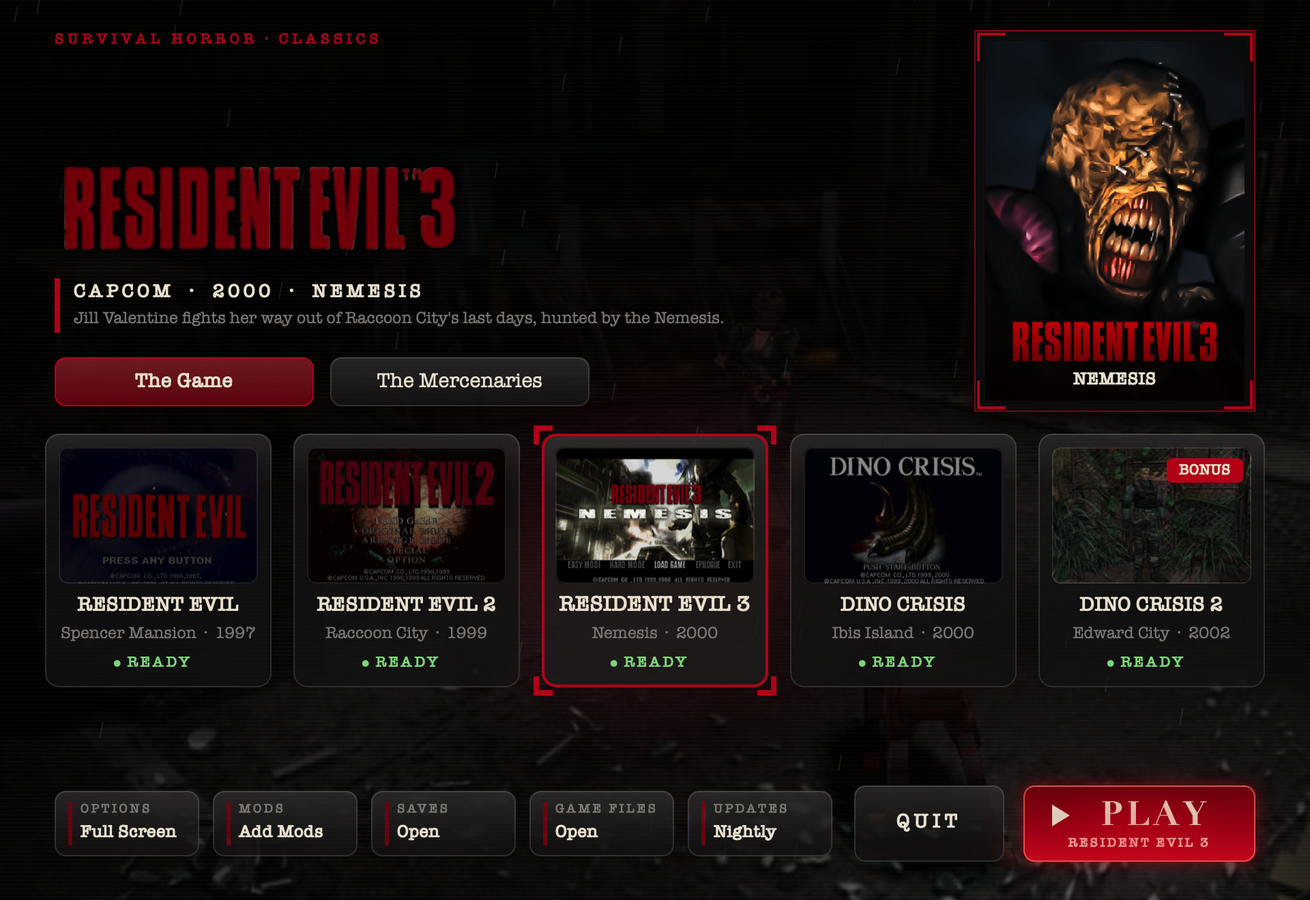
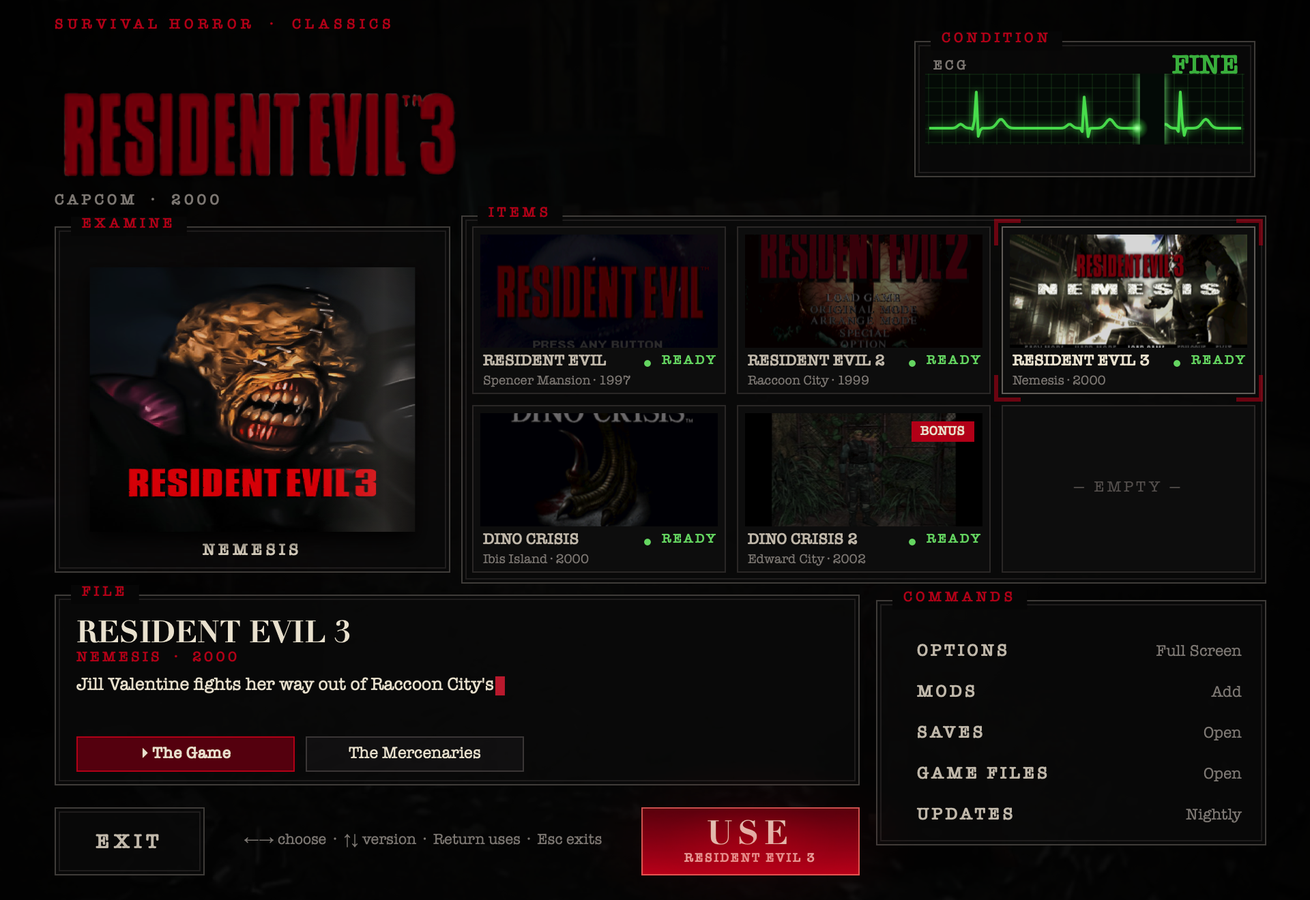
Launch window: the inventory screen
The window is laid out as the games' own inventory rather than the shared card-and-portrait layout:
- the title over the Capcom line;
- a Condition monitor with a heart's trace running live;
- Examine, with the chosen game turning slowly under a gliding light;
- the item grid: a slot per game (its own screen, name, place, state, the bonus ribbon), one slot empty, and a
  cursor breathing round the chosen one;
- the item's file, its sentence typed out a letter at a time with the typewriter's red carriage, and its versions
  as the verbs under it;
- the commands (Options, Mods, Saves, Game Files, Updates) as the inventory's list;
- Exit and Use.

A bad bulb flickers now and then.

diff --git a/recomp/host/horror_launcher.m b/recomp/host/horror_launcher.m
@@ -139,12 +139,17 @@ static NSImage *frost(NSImage *img, CGFloat soft)
     [edge ?: rgb(1, 1, 1, 0.16) setStroke]; [e stroke];
 }
 - (BOOL)acceptsFirstResponder { return YES; }
-- (NSRect)cardRect:(NSInteger)k { CGFloat w = NG > 4 ? 166 : 200, gap = NG > 4 ? 16 : 22, x0 = (self.bounds.size.width - (NG * w + (NG - 1) * gap)) / 2; return NSMakeRect(x0 + k * (w + gap), 318, w, 186); }
-- (NSRect)verRect:(NSInteger)k of:(NSInteger)n { CGFloat w = 190, gap = 12; return NSMakeRect(40 + k * (w + gap), 262, w, 36); }
-- (NSRect)tileRect:(NSInteger)k { CGFloat w = 106, x0 = 40; return NSMakeRect(x0 + k * (w + 10), 580, w, 48); }
-- (NSRect)playRect { return NSMakeRect(self.bounds.size.width - 40 - 170, 576, 170, 56); }
-- (NSRect)quitRect { return NSMakeRect(self.bounds.size.width - 40 - 170 - 14 - 110, 576, 110, 56); }
-- (NSRect)portraitRect { return NSMakeRect(self.bounds.size.width - 40 - 206, 22, 206, 280); }
+/* the inventory screen: the title and the condition monitor; Examine and the item grid; the item's file and the commands */
+- (NSRect)gridRect { return NSMakeRect(346, 166, 574, 254); }
+- (NSRect)cardRect:(NSInteger)k { NSRect g = self.gridRect; CGFloat w = (g.size.width - 16) / 3, h = (g.size.height - 8) / 2; return NSMakeRect(g.origin.x + (k % 3) * (w + 8), g.origin.y + (k / 3) * (h + 8), w, h); }
+- (NSRect)examineRect { return NSMakeRect(40, 166, 290, 254); }
+- (NSRect)monitorRect { return NSMakeRect(self.bounds.size.width - 40 - 250, 30, 250, 100); }
+- (NSRect)fileRect { return NSMakeRect(40, 436, 590, 140); }
+- (NSRect)verRect:(NSInteger)k of:(NSInteger)n { NSRect f = self.fileRect; return NSMakeRect(f.origin.x + 16 + k * 168, NSMaxY(f) - 36, 160, 26); }
+- (NSRect)tileRect:(NSInteger)k { return NSMakeRect(650, 464 + k * 30, 270, 28); }
+- (NSRect)playRect { return NSMakeRect(470, 592, 160, 50); }
+- (NSRect)quitRect { return NSMakeRect(40, 592, 110, 50); }
+- (NSRect)portraitRect { return NSInsetRect(self.examineRect, 14, 30); }
 - (NSRect)panelRect { CGFloat h = 70 + 58 * (CGFloat)self.opts.count; return NSMakeRect(150, MAX(40, 300 - h / 2), self.bounds.size.width - 300, h); }
 - (NSRect)rowRect:(NSInteger)k { NSRect p = self.panelRect; return NSMakeRect(p.origin.x + 30, p.origin.y + 54 + 58 * k, p.size.width - 60, 50); }
 - (const Version *)version:(NSInteger)g { const GameDef *d = &GAMES[g]; NSInteger v = self->ver[g]; return &d->v[v < d->nv ? v : 0]; }
@@ -312,170 +317,195 @@ static void draw_sprite(NSImage *img, NSPoint c, CGFloat rx, CGFloat ry, CGFloat
     return s;
 }
 static int frames_drawn;
+static double ecg(double ph)   /* one beat of a heart's trace, 0..1 of the beat: the P wave, the spike, the T wave */
+{
+    double p = 0.10 * exp(-pow((ph - 0.18) / 0.035, 2)), q = -0.12 * exp(-pow((ph - 0.30) / 0.010, 2)), r = 1.0 * exp(-pow((ph - 0.32) / 0.012, 2));
+    double s2 = -0.25 * exp(-pow((ph - 0.345) / 0.012, 2)), t = 0.22 * exp(-pow((ph - 0.55) / 0.05, 2)); return p + q + r + s2 + t;
+}
 - (void)drawRect:(NSRect)dirty
 {
     NSRect b = self.bounds; double T = self.t; frames_drawn++;
     if (!self.cache) self.cache = [NSMutableDictionary dictionary];
     if (![self.cache[@"scale"] isEqual:@(self.scale)]) { [self.cache removeAllObjects]; self.cache[@"scale"] = @(self.scale); }
-    [rgb(0.035, 0.03, 0.035, 1) setFill]; NSRectFill(b);
+    if (![self.cache[@"typeGame"] isEqual:@(self.game)]) { self.cache[@"typeGame"] = @(self.game); self.cache[@"typeT"] = @(getenv("SHC_LAUNCHER_SHOT") ? T - 1.6 : T); }   /* (a shot: mid-sentence) */
+    [rgb(0.02, 0.018, 0.02, 1) setFill]; NSRectFill(b);
     BOOL fading = self.fade < 1 && self.prevGame != self.game;
-    if (fading) [self backdrop:self.prevGame alpha:1];
-    [self backdrop:self.game alpha:fading ? self.fade : 1];
-    [self.gradeImage drawInRect:b fromRect:NSZeroRect operation:NSCompositingOperationSourceOver fraction:1 respectFlipped:YES hints:@{NSImageHintInterpolation: @(NSImageInterpolationLow)}];
-    /* fog rolling low across the window; a red bloom behind the chosen card, breathing; a light that flickers */
-    NSImage *fog = [self sprite:@"fog" colors:@[rgb(0.55, 0.55, 0.58, 1), rgb(0.45, 0.45, 0.48, 0.4), rgb(0.4, 0.4, 0.42, 0)]];
-    for (int i = 0; i < 8; i++) {
-        double sp = 0.4 + hash01(i * 3.1), y = b.size.height * (0.45 + 0.5 * hash01(i * 7.7)), r = 160 + 160 * hash01(i * 1.3);
-        double x = fmod(hash01(i * 5.9) * (b.size.width + 2 * r) + T * 9 * sp, b.size.width + 2 * r) - r;
-        draw_sprite(fog, NSMakePoint(x, y + 10 * sin(T * 0.2 + i)), r, r * 0.45, 0.07 + 0.03 * sin(T * 0.3 + i));
-    }
-    NSRect cr = [self cardRect:self.game];
-    NSImage *bloom = [self sprite:@"bloom" colors:@[rgb(0.55, 0.04, 0.06, 0.9), rgb(0.2, 0.01, 0.02, 0.3), rgb(0, 0, 0, 0)]];
-    double flick = fmod(T, 7.3) < 0.12 || fmod(T + 2.1, 11.7) < 0.08 ? 0.35 : 1.0;
-    draw_sprite(bloom, NSMakePoint(NSMidX(cr), NSMidY(cr)), 380, 300, (0.30 + 0.12 * (0.5 + 0.5 * sin(T * 1.3))) * flick);
-    [[NSColor colorWithSRGBRed:0.75 green:0.78 blue:0.85 alpha:0.12] setStroke];      /* a cold rain */
-    NSBezierPath *rain = [NSBezierPath bezierPath]; rain.lineWidth = 1;
-    for (int i = 0; i < 70; i++) {
-        double sx = hash01(i * 1.618), sy = hash01(i * 2.414 + 7), sp = 0.7 + 0.6 * hash01(i * 0.577 + 3);
-        double y = fmod(sy * (b.size.height + 40) + T * 380 * sp, b.size.height + 40) - 20, x = fmod(sx * (b.size.width + 60) - T * 40 * sp, b.size.width + 60); if (x < 0) x += b.size.width + 60;
-        [rain moveToPoint:NSMakePoint(x, y)]; [rain lineToPoint:NSMakePoint(x - 2, y + 12)];
-    }
-    [rain stroke];
-    /* the box in its frame (the frame is in the still part) */
-    {
-        NSRect in = NSInsetRect(self.portraitRect, 8, 8);
-        [NSGraphicsContext saveGraphicsState]; NSRectClip(in); [rgb(0, 0, 0, 1) setFill]; NSRectFill(in);
-        NSImage *now = self.portraits[@(GAMES[self.game].id)], *was = fading ? self.portraits[@(GAMES[self.prevGame].id)] : nil;
-        if (was) draw_fill_z(was, in, 1, 1.0, 0.5, 0.4, NSImageInterpolationHigh);
-        draw_fill_z(now, in, was ? self.fade : 1, (CGFloat)(1.02 + 0.02 * sin(T * 0.21)), (CGFloat)(0.5 + 0.015 * sin(T * 0.13)), 0.4, NSImageInterpolationHigh);
-        [[[NSGradient alloc] initWithColorsAndLocations:rgb(0, 0, 0, 0), 0.7, rgb(0.02, 0, 0, 0.9), 1.0, nil] drawInRect:in angle:90];
-        [NSGraphicsContext restoreGraphicsState];
-    }
+    if (fading) [self backdrop:self.prevGame alpha:0.35];
+    [self backdrop:self.game alpha:(fading ? self.fade : 1) * 0.35];      /* the game's own screens, far back in the dark */
+    [rgb(0.02, 0.015, 0.02, 0.55) setFill]; NSRectFillUsingOperation(b, NSCompositingOperationSourceOver);
+    [[[NSGradient alloc] initWithStartingColor:rgb(0, 0, 0, 0) endingColor:rgb(0, 0, 0, 0.85)] drawInRect:b relativeCenterPosition:NSZeroPoint];
     NSString *sig = self.signature;
     if (!self.cache[@"ui"] || ![self.cache[@"uiSig"] isEqual:sig]) { self.cache[@"ui"] = offscreen(b.size, self.scale, ^{ [self drawStill]; }); self.cache[@"uiSig"] = sig; }
     [(NSImage *)self.cache[@"ui"] drawInRect:b fromRect:NSZeroRect operation:NSCompositingOperationSourceOver fraction:1 respectFlipped:YES hints:nil];
-    if (!self.open) {                                                   /* Play's glow, breathing */
+    double flick = fmod(T, 7.3) < 0.12 || fmod(T + 2.1, 11.7) < 0.08 ? 0.55 : 1.0;   /* a bad bulb */
+    if (!self.open) {   /* Examine: the chosen game, turning slowly in the light */
+        NSRect in = self.portraitRect; NSImage *now = self.portraits[@(GAMES[self.game].id)];
+        double c = cos(T * 0.55); CGFloat sx = (CGFloat)(0.78 + 0.22 * fabs(c)), w = in.size.width * sx;
+        NSRect pr = NSMakeRect(NSMidX(in) - w / 2, in.origin.y, w, in.size.height);
+        NSImage *glow = [self sprite:@"exglow" colors:@[rgb(0.45, 0.05, 0.06, 0.55), rgb(0.15, 0.01, 0.02, 0.2), rgb(0, 0, 0, 0)]];
+        draw_sprite(glow, NSMakePoint(NSMidX(in), NSMidY(in)), 170, 150, 0.6 * flick);
+        if (now) { NSShadow *sh = [NSShadow new]; sh.shadowColor = rgb(0, 0, 0, 0.9); sh.shadowBlurRadius = 14; sh.shadowOffset = NSMakeSize(0, -6);
+                   [NSGraphicsContext saveGraphicsState]; [sh set]; [now drawInRect:pr fromRect:NSZeroRect operation:NSCompositingOperationSourceOver fraction:fading ? self.fade : 1 respectFlipped:YES hints:@{NSImageHintInterpolation: @(NSImageInterpolationHigh)}];
+                   [NSGraphicsContext restoreGraphicsState];
+                   [NSGraphicsContext saveGraphicsState]; NSRectClip(pr);                  /* the light gliding over it as it turns */
+                   CGFloat lx = pr.origin.x + (CGFloat)((0.5 + 0.5 * sin(T * 0.55)) * pr.size.width);
+                   [[[NSGradient alloc] initWithColors:@[rgb(1, 1, 1, 0), rgb(1, 0.95, 0.9, 0.16), rgb(1, 1, 1, 0)]] drawInRect:NSMakeRect(lx - 50, pr.origin.y, 100, pr.size.height) angle:0];
+                   [rgb(0, 0, 0, 0.35 * (1 - fabs(c))) setFill]; NSRectFillUsingOperation(pr, NSCompositingOperationSourceOver);
+                   [NSGraphicsContext restoreGraphicsState]; }
+    }
+    if (!self.open) {   /* the condition monitor: a heart's trace running across, its head bright, its tail fading */
+        NSRect m = NSInsetRect(self.monitorRect, 10, 30); double bpm = 72, beat = 60 / bpm, span = 2.4;
+        NSBezierPath *tr = [NSBezierPath bezierPath]; tr.lineWidth = 2; tr.lineJoinStyle = NSLineJoinStyleRound;
+        int nseg = 160; NSColor *gc = rgb(0.35, 0.95, 0.40, 1); double head = fmod(T, span);
+        for (int k = 0; k <= nseg; k++) {
+            double u = (double)k / nseg, tt = T - span + u * span, v = ecg(fmod(tt / beat, 1.0));
+            NSPoint pt = NSMakePoint(m.origin.x + fmod(u * m.size.width + head / span * m.size.width, m.size.width), NSMaxY(m) - 6 - v * (m.size.height - 10));
+            if (k == 0 || pt.x < tr.currentPoint.x) [tr moveToPoint:pt]; else [tr lineToPoint:pt];
+        }
+        [NSGraphicsContext saveGraphicsState]; NSRectClip(NSInsetRect(m, -2, -6));
+        NSShadow *gl = [NSShadow new]; gl.shadowColor = [gc colorWithAlphaComponent:0.8]; gl.shadowBlurRadius = 6; [gl set];
+        [[gc colorWithAlphaComponent:0.85] setStroke]; [tr stroke];
+        CGFloat hx = m.origin.x + (CGFloat)(head / span) * m.size.width;   /* the sweep: dark just ahead of the head */
+        [rgb(0.01, 0.04, 0.02, 1) setFill]; NSRectFill(NSMakeRect(hx + 2, m.origin.y - 6, 18, m.size.height + 12));
+        [NSGraphicsContext restoreGraphicsState];
+        double hv = ecg(fmod(T / beat, 1.0)); NSPoint hp = NSMakePoint(hx, NSMaxY(m) - 6 - hv * (m.size.height - 10));
+        draw_sprite([self sprite:@"ecghead" colors:@[rgb(0.7, 1, 0.7, 1), rgb(0.3, 0.9, 0.35, 0.4), rgb(0, 0, 0, 0)]], hp, 8, 8, 1);
+        double pulse = exp(-pow(fmod(T / beat, 1.0) - 0.33, 2) / 0.004);
+        text(@"FINE", type(20, YES), [gc colorWithAlphaComponent:0.7 + 0.3 * pulse], NSMakeRect(NSMaxX(self.monitorRect) - 90, self.monitorRect.origin.y + 6, 78, 26), NSTextAlignmentRight);
+    }
+    if (!self.open) {
+        {   /* the item's file, typed out on the save room's typewriter */
+            static NSString *const blurbs[] = {@"S.T.A.R.S. Alpha Team flees into a mansion in the Arklay Mountains, and finds Umbrella's secret.",
+                                               @"A rookie cop and a student looking for her brother reach Raccoon City the night the dead take it.",
+                                               @"Jill Valentine fights her way out of Raccoon City's last days, hunted by the Nemesis.",
+                                               @"Regina's team lands on Ibis Island to bring back Dr. Kirk, and finds the facility overrun by dinosaurs.",
+                                               @"A rescue team crosses into a jungle out of time to find Edward City's lost research station."};
+            NSString *full = self.game < 5 ? blurbs[self.game] : @""; double tt = T - [self.cache[@"typeT"] doubleValue];
+            NSUInteger n = MIN(full.length, (NSUInteger)MAX(0.0, (tt - 0.25) * 38));
+            NSString *shown = [full substringToIndex:n]; NSRect f = self.fileRect;
+            NSMutableParagraphStyle *ps = [NSMutableParagraphStyle new]; ps.lineSpacing = 2;
+            NSDictionary *at = @{NSFontAttributeName: type(13, NO), NSForegroundColorAttributeName: paper(), NSParagraphStyleAttributeName: ps};
+            NSRect tr = NSMakeRect(f.origin.x + 16, f.origin.y + 58, f.size.width - 32, 44);
+            [shown drawWithRect:tr options:NSStringDrawingUsesLineFragmentOrigin attributes:at];
+            if (n < full.length || fmod(T, 1.0) < 0.5) {                      /* the carriage: a block where the next letter lands */
+                NSTextStorage *ts = [[NSTextStorage alloc] initWithString:shown.length ? shown : @" " attributes:at]; NSLayoutManager *lm = [NSLayoutManager new]; NSTextContainer *tc = [[NSTextContainer alloc] initWithSize:NSMakeSize(tr.size.width, 1000)];
+                tc.lineFragmentPadding = 0; [lm addTextContainer:tc]; [ts addLayoutManager:lm];
+                NSRect g = shown.length ? [lm boundingRectForGlyphRange:NSMakeRange(MAX(0, (NSInteger)[lm numberOfGlyphs] - 1), 1) inTextContainer:tc] : NSMakeRect(-8, 0, 0, 17);
+                [rgb(0.76, 0.09, 0.11, 0.9) setFill]; NSRectFill(NSMakeRect(tr.origin.x + NSMaxX(g) + 1, tr.origin.y + g.origin.y + 2, 7, 14));
+            }
+        }
+        {   /* the grid's cursor: brackets breathing round the chosen slot */
+            NSRect r = NSInsetRect([self cardRect:self.game], -4, -4); CGFloat a = (CGFloat)(0.55 + 0.45 * (0.5 + 0.5 * sin(T * 4.2)));
+            [[blood() colorWithAlphaComponent:a] setStroke];
+            for (int k = 0; k < 4; k++) { CGFloat sx = k % 2 ? -1 : 1, sy = k / 2 ? -1 : 1; NSPoint c = NSMakePoint(k % 2 ? NSMaxX(r) : r.origin.x, k / 2 ? NSMaxY(r) : r.origin.y);
+                NSBezierPath *br = [NSBezierPath bezierPath]; br.lineWidth = 3; [br moveToPoint:NSMakePoint(c.x, c.y + sy * 18)]; [br lineToPoint:c]; [br lineToPoint:NSMakePoint(c.x + sx * 18, c.y)]; [br stroke]; }
+        }
         NSRect p = self.playRect; NSImage *pg = [self sprite:@"playglow" colors:@[rgb(0.9, 0.08, 0.1, 0.7), rgb(0.5, 0.02, 0.04, 0.2), rgb(0, 0, 0, 0)]];
         draw_sprite(pg, NSMakePoint(NSMidX(p), NSMidY(p)), p.size.width * 0.8, p.size.height * 1.2, 0.20 + 0.18 * (0.5 + 0.5 * sin(T * 2.0)));
     }
+    if (flick < 1) { [rgb(0, 0, 0, 0.18) setFill]; NSRectFillUsingOperation(b, NSCompositingOperationSourceOver); }
+}
+- (void)panelBox:(NSRect)r title:(NSString *)t   /* a box of the inventory: black glass, a fine grey rule, its name on the frame */
+{
+    [rgb(0.03, 0.025, 0.03, 0.88) setFill]; NSRectFillUsingOperation(r, NSCompositingOperationSourceOver);
+    [rgb(0.55, 0.52, 0.50, 0.55) setStroke]; NSBezierPath *e = [NSBezierPath bezierPathWithRect:NSInsetRect(r, 0.5, 0.5)]; e.lineWidth = 1; [e stroke];
+    [rgb(0.55, 0.52, 0.50, 0.25) setStroke]; NSBezierPath *e2 = [NSBezierPath bezierPathWithRect:NSInsetRect(r, 3.5, 3.5)]; e2.lineWidth = 1; [e2 stroke];
+    if (t.length) { NSDictionary *a = @{NSFontAttributeName: type(10.5, YES), NSKernAttributeName: @2.4}; CGFloat w = [t sizeWithAttributes:a].width + 16;
+        [rgb(0.02, 0.018, 0.02, 1) setFill]; NSRectFill(NSMakeRect(r.origin.x + 12, r.origin.y - 7, w, 14));
+        ktext(t, type(10.5, YES), blood(), 2.4, NSMakeRect(r.origin.x + 20, r.origin.y - 8, w, 15), NSTextAlignmentLeft); }
 }
 - (void)drawStill
 {
     NSRect b = self.bounds; const GameDef *gd = &GAMES[self.game];
-    {   /* the box's frame: black, a blood-red hairline, brackets at the corners; its window clear */
-        NSRect pr = self.portraitRect, in = NSInsetRect(pr, 8, 8);
-        NSShadow *ps = [NSShadow new]; ps.shadowColor = rgb(0, 0, 0, 0.85); ps.shadowBlurRadius = 16; ps.shadowOffset = NSMakeSize(0, -5);
-        [NSGraphicsContext saveGraphicsState]; [ps set]; [rgb(0.05, 0.04, 0.045, 1) setFill]; NSRectFill(pr); [NSGraphicsContext restoreGraphicsState];
-        [[blood() colorWithAlphaComponent:0.7] setStroke]; NSBezierPath *e = [NSBezierPath bezierPathWithRect:NSInsetRect(pr, 0.5, 0.5)]; e.lineWidth = 1; [e stroke];
-        NSRectFillUsingOperation(in, NSCompositingOperationClear);
-        [blood() setStroke];
-        for (int k = 0; k < 4; k++) {
-            CGFloat sx = k % 2 ? -1 : 1, sy = k / 2 ? -1 : 1; NSPoint c = NSMakePoint(k % 2 ? NSMaxX(pr) - 3 : pr.origin.x + 3, k / 2 ? NSMaxY(pr) - 3 : pr.origin.y + 3);
-            NSBezierPath *br = [NSBezierPath bezierPath]; br.lineWidth = 2; [br moveToPoint:NSMakePoint(c.x, c.y + sy * 20)]; [br lineToPoint:c]; [br lineToPoint:NSMakePoint(c.x + sx * 20, c.y)]; [br stroke];
-        }
-        text(@(gd->tag).uppercaseString, type(13, YES), paper(), NSMakeRect(in.origin.x, NSMaxY(in) - 24, in.size.width, 18), NSTextAlignmentCenter);
-    }
-    /* the collection's name, small; the chosen game's own title (keyed out of its title screen), else its name */
-    text(@"S U R V I V A L   H O R R O R   ·   C L A S S I C S", type(11, YES), blood(), NSMakeRect(40, 22, 640, 16), NSTextAlignmentLeft);
+    ktext(@"SURVIVAL HORROR  ·  CLASSICS", type(10.5, YES), blood(), 3, NSMakeRect(40, 12, 400, 15), NSTextAlignmentLeft);
     NSImage *logo = self.logos[@(gd->id)];
-    { NSShadow *sh = [NSShadow new]; sh.shadowColor = rgb(0, 0, 0, 0.85); sh.shadowBlurRadius = 10; [NSGraphicsContext saveGraphicsState]; [sh set];
-      if (logo) { NSSize ls = logo.size; CGImageRef lc = [logo CGImageForProposedRect:NULL context:nil hints:nil];
-                  CGFloat px = lc ? CGImageGetWidth(lc) : ls.width, lw = MIN(560, px * 0.62), lh = lw * ls.height / MAX(1, ls.width);   /* (at most ~1.6 of its pixels per pixel on Retina: sharp, not a blur) */
-                  if (lh > 150) { lh = 150; lw = lh * ls.width / MAX(1, ls.height); }
-                  [logo drawInRect:NSMakeRect(40, 190 - lh, lw, lh) fromRect:NSZeroRect operation:NSCompositingOperationSourceOver fraction:1 respectFlipped:YES hints:@{NSImageHintInterpolation: @(NSImageInterpolationHigh)}]; }
-      else text(@(gd->title), title_font(52), paper(), NSMakeRect(40, 122, 640, 66), NSTextAlignmentLeft);
-      [NSGraphicsContext restoreGraphicsState]; }
-    [blood() setFill]; NSRectFill(NSMakeRect(40, 204, 4, 40));
-    ktext([NSString stringWithFormat:@"CAPCOM  ·  %s  ·  %@", gd->year, @(gd->tag).uppercaseString], type(14, YES), paper(), 2.4, NSMakeRect(54, 205, 620, 20), NSTextAlignmentLeft);
-    static NSString *const blurbs[] = {@"S.T.A.R.S. Alpha Team flees into a mansion in the Arklay Mountains, and finds Umbrella's secret.",
-                                       @"A rookie cop and a student looking for her brother reach Raccoon City the night the dead take it.",
-                                       @"Jill Valentine fights her way out of Raccoon City's last days, hunted by the Nemesis.",
-                                       @"Regina's team lands on Ibis Island to bring back Dr. Kirk, and finds the facility overrun by dinosaurs.",
-                                       @"A rescue team crosses into a jungle out of time to find Edward City's lost research station."};
-    text(self.game < 5 ? blurbs[self.game] : @"", type(12, NO), ash(), NSMakeRect(54, 226, 620, 18), NSTextAlignmentLeft);
-    /* the cards */
-    for (NSInteger k = 0; k < NG; k++) {
+    {   NSShadow *sh = [NSShadow new]; sh.shadowColor = rgb(0, 0, 0, 0.85); sh.shadowBlurRadius = 10; [NSGraphicsContext saveGraphicsState]; [sh set];
+        if (logo) { NSSize ls = logo.size; CGImageRef lc = [logo CGImageForProposedRect:NULL context:nil hints:nil];
+                    CGFloat px = lc ? CGImageGetWidth(lc) : ls.width, lw = MIN(520, px * 0.62), lh = lw * ls.height / MAX(1, ls.width);
+                    if (lh > 104) { lh = 104; lw = lh * ls.width / MAX(1, ls.height); }
+                    [logo drawInRect:NSMakeRect(40, 136 - lh, lw, lh) fromRect:NSZeroRect operation:NSCompositingOperationSourceOver fraction:1 respectFlipped:YES hints:@{NSImageHintInterpolation: @(NSImageInterpolationHigh)}]; }
+        else text(@(gd->title), title_font(50), paper(), NSMakeRect(40, 70, 600, 64), NSTextAlignmentLeft);
+        [NSGraphicsContext restoreGraphicsState]; }
+    ktext([NSString stringWithFormat:@"CAPCOM  ·  %s", gd->year], type(11, YES), ash(), 2.4, NSMakeRect(40, 140, 300, 15), NSTextAlignmentLeft);
+    {   /* the monitor's frame (its trace is live) */
+        NSRect m = self.monitorRect; [self panelBox:m title:@"CONDITION"];
+        NSRect g = NSInsetRect(m, 10, 30); [rgb(0.01, 0.04, 0.02, 1) setFill]; NSRectFill(NSInsetRect(g, -2, -6));
+        [rgb(0.2, 0.6, 0.25, 0.18) setFill];
+        for (CGFloat x = g.origin.x; x <= NSMaxX(g); x += 10) NSRectFillUsingOperation(NSMakeRect(x, g.origin.y - 6, 1, g.size.height + 12), NSCompositingOperationSourceOver);
+        for (CGFloat y = g.origin.y - 6; y <= NSMaxY(g) + 6; y += 10) NSRectFillUsingOperation(NSMakeRect(g.origin.x - 2, y, g.size.width + 4, 1), NSCompositingOperationSourceOver);
+        ktext(@"ECG", type(10, YES), ash(), 2, NSMakeRect(m.origin.x + 14, m.origin.y + 12, 60, 14), NSTextAlignmentLeft);
+    }
+    {   /* Examine's frame */
+        NSRect e = self.examineRect; [self panelBox:e title:@"EXAMINE"];
+        ktext(@(gd->tag).uppercaseString, type(12, YES), paper(), 2.4, NSMakeRect(e.origin.x, NSMaxY(e) - 24, e.size.width, 16), NSTextAlignmentCenter);
+    }
+    /* the item grid: each game a slot, its picture, its name, its state; one slot empty, as in the game */
+    [self panelBox:NSInsetRect(self.gridRect, -8, -8) title:@"ITEMS"];
+    for (NSInteger k = 0; k < 6; k++) {
         NSRect r = [self cardRect:k]; BOOL sel = k == self.game, hov = self.hover == HIT_CARD + k;
+        [rgb(0.06, 0.055, 0.06, 1) setFill]; NSRectFill(r);
+        [rgb(0.5, 0.48, 0.46, sel ? 0.9 : hov ? 0.7 : 0.35) setStroke]; NSBezierPath *fr = [NSBezierPath bezierPathWithRect:NSInsetRect(r, 0.5, 0.5)]; fr.lineWidth = 1; [fr stroke];
+        if (k >= NG) { ktext(@"— EMPTY —", type(11, NO), rgb(0.4, 0.38, 0.37, 1), 2, NSMakeRect(r.origin.x, NSMidY(r) - 8, r.size.width, 16), NSTextAlignmentCenter); continue; }
         NSDictionary *en = [self entry:k]; BOOL have = en != nil, mounted = have && volume_ok(en[@"game"]);
-        [self glass:r radius:10 tint:rgb(1, 1, 1, sel ? 0.10 : hov ? 0.08 : 0.05) edge:sel ? blood() : hov ? rgb(0.8, 0.25, 0.25, 0.7) : rgb(1, 1, 1, 0.16) width:sel ? 2 : 1];
-        /* the game's own title screen, framed (its GOG icon when there is none) */
-        NSRect ir = NSMakeRect(r.origin.x + 10, r.origin.y + 10, r.size.width - 20, 100);
-        NSImage *shot = self.backdrop[@(GAMES[k].id)], *icon = self.art[@(GAMES[k].id)];
-        [NSGraphicsContext saveGraphicsState]; [[NSBezierPath bezierPathWithRoundedRect:ir xRadius:6 yRadius:6] addClip];
-        [rgb(0, 0, 0, 0.5) setFill]; NSRectFillUsingOperation(ir, NSCompositingOperationSourceOver);
-        if (shot) draw_fill(shot, ir, have ? (sel ? 1 : 0.8) : 0.3);
-        else if (icon) [icon drawInRect:NSMakeRect(NSMidX(ir) - 60, NSMidY(ir) - 60, 120, 120) fromRect:NSZeroRect operation:NSCompositingOperationSourceOver fraction:have ? 1 : 0.3 respectFlipped:YES hints:nil];
-        if (!sel) { [rgb(0, 0, 0, 0.25) setFill]; NSRectFillUsingOperation(ir, NSCompositingOperationSourceOver); }
+        NSRect ir = NSMakeRect(r.origin.x + 6, r.origin.y + 6, r.size.width - 12, r.size.height - 40);
+        NSImage *shot = self.backdrop[@(GAMES[k].id)];
+        [NSGraphicsContext saveGraphicsState]; NSRectClip(ir); [rgb(0, 0, 0, 1) setFill]; NSRectFill(ir);
+        if (shot) draw_fill(shot, ir, have ? (sel ? 1 : 0.75) : 0.3);
+        if (!sel) { [rgb(0, 0, 0, hov ? 0.15 : 0.35) setFill]; NSRectFillUsingOperation(ir, NSCompositingOperationSourceOver); }
         [NSGraphicsContext restoreGraphicsState];
-        [rgb(1, 1, 1, 0.14) setStroke]; [[NSBezierPath bezierPathWithRoundedRect:NSInsetRect(ir, 0.5, 0.5) xRadius:6 yRadius:6] stroke];
-        if (GAMES[k].bonus) {                                   /* the bonus game: a ribbon over its picture */
-            NSRect rb = NSMakeRect(NSMaxX(ir) - 62, ir.origin.y + 8, 56, 18);
-            [blood() setFill]; [[NSBezierPath bezierPathWithRoundedRect:rb xRadius:4 yRadius:4] fill];
-            text(@"BONUS", type(11, YES), paper(), NSMakeRect(rb.origin.x, rb.origin.y + 2, rb.size.width, 14), NSTextAlignmentCenter);
+        if (GAMES[k].bonus) { NSRect rb = NSMakeRect(NSMaxX(ir) - 52, ir.origin.y + 6, 46, 15); [blood() setFill]; NSRectFill(rb);
+                              text(@"BONUS", type(9.5, YES), paper(), NSMakeRect(rb.origin.x, rb.origin.y + 1, rb.size.width, 13), NSTextAlignmentCenter); }
+        text(@(GAMES[k].title).uppercaseString, type(11.5, YES), have ? (sel ? paper() : rgb(0.8, 0.77, 0.72, 1)) : ash(), NSMakeRect(r.origin.x + 8, NSMaxY(r) - 31, r.size.width - 70, 16), NSTextAlignmentLeft);
+        NSString *st = !have ? (suite_cfg ? @"SET UP" : @"ABSENT") : !mounted ? @"INSERT" : @"READY";
+        NSColor *sc = !have ? ash() : !mounted ? rgb(0.95, 0.6, 0.3, 1) : rgb(0.45, 0.85, 0.45, 1);
+        [sc setFill]; [[NSBezierPath bezierPathWithOvalInRect:NSMakeRect(NSMaxX(r) - 60, NSMaxY(r) - 25, 5, 5)] fill];
+        ktext(st, type(9.5, YES), sc, 1.4, NSMakeRect(NSMaxX(r) - 52, NSMaxY(r) - 31, 46, 14), NSTextAlignmentRight);
+        text([NSString stringWithFormat:@"%s · %s", GAMES[k].tag, GAMES[k].year], type(9.5, NO), ash(), NSMakeRect(r.origin.x + 8, NSMaxY(r) - 16, r.size.width - 16, 13), NSTextAlignmentLeft);
+    }
+    {   /* the item's file: its name, its place and year; the text is typed live; its versions as the verbs under it */
+        NSRect f = self.fileRect; [self panelBox:f title:@"FILE"];
+        text(@(gd->title), title_font(22), paper(), NSMakeRect(f.origin.x + 16, f.origin.y + 14, f.size.width - 32, 28), NSTextAlignmentLeft);
+        ktext([NSString stringWithFormat:@"%@  ·  %s", @(gd->tag).uppercaseString, gd->year], type(10.5, YES), blood(), 2, NSMakeRect(f.origin.x + 16, f.origin.y + 40, f.size.width - 32, 14), NSTextAlignmentLeft);
+        const GameDef *d = gd;
+        if (d->nv > 1) for (NSInteger k = 0; k < d->nv; k++) {
+            NSRect r = [self verRect:k of:d->nv]; BOOL on = k == self->ver[self.game], hov = self.hover == HIT_VER + k;
+            [(on ? rgb(0.45, 0.04, 0.06, 0.9) : rgb(1, 1, 1, hov ? 0.10 : 0.05)) setFill]; NSRectFillUsingOperation(r, NSCompositingOperationSourceOver);
+            [(on ? blood() : rgb(0.5, 0.48, 0.46, 0.5)) setStroke]; NSBezierPath *vb = [NSBezierPath bezierPathWithRect:NSInsetRect(r, 0.5, 0.5)]; vb.lineWidth = 1; [vb stroke];
+            BOOL have = self.installed[@(d->v[k].id)] != nil;
+            text([(on ? @"▸ " : @"") stringByAppendingString:@(d->v[k].label)], type(12, on), have ? paper() : ash(), NSMakeRect(r.origin.x + 4, r.origin.y + 5, r.size.width - 8, 17), NSTextAlignmentCenter);
         }
-        text(@(GAMES[k].title), type(sel ? 16 : 15, YES), have ? paper() : ash(), NSMakeRect(r.origin.x + 8, r.origin.y + 116, r.size.width - 16, 22), NSTextAlignmentCenter);
-        text([NSString stringWithFormat:@"%s  ·  %s", GAMES[k].tag, GAMES[k].year], type(12, NO), ash(), NSMakeRect(r.origin.x + 8, r.origin.y + 139, r.size.width - 16, 18), NSTextAlignmentCenter);
-        NSString *st = !have ? (suite_cfg ? @"Not set up · Play sets it up" : @"Not installed") : !mounted ? [NSString stringWithFormat:@"Insert %@", volume_name(en[@"game"]) ?: @"its drive"] : @"Ready";
-        NSColor *sc = !have ? ash() : !mounted ? rgb(0.95, 0.6, 0.3, 1) : rgb(0.55, 0.85, 0.55, 1); NSFont *sf = type(11, YES);
-        CGFloat sw = [st.uppercaseString sizeWithAttributes:@{NSFontAttributeName: sf, NSKernAttributeName: @1.6}].width;
-        [sc setFill]; [[NSBezierPath bezierPathWithOvalInRect:NSMakeRect(NSMidX(r) - sw / 2 - 9, r.origin.y + 166, 5, 5)] fill];
-        ktext(st.uppercaseString, sf, sc, 1.6, NSMakeRect(NSMidX(r) - sw / 2 + 1, r.origin.y + 161, sw + 4, 16), NSTextAlignmentLeft);
-        if (sel) { [blood() setFill];                          /* the chosen card: blood-red brackets outside its corners */
-            for (int c = 0; c < 4; c++) { CGFloat x = c % 2 ? NSMaxX(r) + 2 : r.origin.x - 6, y = c / 2 ? NSMaxY(r) + 2 : r.origin.y - 6;
-                NSRectFill(NSMakeRect(c % 2 ? x - 10 : x, y, 14, 4)); NSRectFill(NSMakeRect(x, c / 2 ? y - 10 : y, 4, 14)); } }
     }
-    /* the chosen game's versions */
-    const GameDef *d = &GAMES[self.game];
-    if (d->nv > 1) for (NSInteger k = 0; k < d->nv; k++) {
-        NSRect r = [self verRect:k of:d->nv]; BOOL on = k == self->ver[self.game], hov = self.hover == HIT_VER + k;
-        [self glass:r radius:8 tint:on ? rgb(0.75, 0.06, 0.09, 0.55) : rgb(1, 1, 1, hov ? 0.10 : 0.06) edge:on ? blood() : nil width:1];
-        BOOL have = self.installed[@(d->v[k].id)] != nil;
-        text(@(d->v[k].label), type(15, on), have ? paper() : ash(), NSMakeRect(r.origin.x, r.origin.y + 8, r.size.width, 22), NSTextAlignmentCenter);
-    }
-    else text(@"", type(12, NO), ash(), NSZeroRect, NSTextAlignmentCenter);
-    (void)b;
-    /* tiles and buttons */
-    NSArray *tiles = @[@"Options", @"Mods", @"Saves", @"Game Files", @"Updates"];
+    /* the commands: as the inventory's own list, a cursor at the one under the pointer */
+    NSArray *tiles = @[@"OPTIONS", @"MODS", @"SAVES", @"GAME FILES", @"UPDATES"];
     NSUInteger nmods = 0, onmods = 0; hmods_counts(@(GAMES[self.game].id), &nmods, &onmods);
+    NSRect cl = NSMakeRect(642, 440, 286, 30 * NTILES + 30); [self panelBox:cl title:@"COMMANDS"];
     for (NSInteger k = 0; k < NTILES; k++) {
         NSRect r = [self tileRect:k]; BOOL hov = self.hover == HIT_OPTIONS + k || (k == 0 && self.open);
-        [self glass:r radius:8 tint:rgb(1, 1, 1, hov ? 0.11 : 0.06) edge:hov ? blood() : nil width:1];
-        [(hov ? blood() : [blood() colorWithAlphaComponent:0.55]) setFill]; NSRectFill(NSMakeRect(r.origin.x + 10, r.origin.y + 8, 3, r.size.height - 16));
-        NSString *value = k == 0 ? (self.opts.count ? self.opts[0].choices[self.opts[0].index][1] : @"Settings")
-                        : k == 1 ? (nmods ? [NSString stringWithFormat:@"%lu of %lu on", (unsigned long)onmods, (unsigned long)nmods] : @"Add Mods")
+        if (hov) { [rgb(0.45, 0.04, 0.06, 0.55) setFill]; NSRectFillUsingOperation(r, NSCompositingOperationSourceOver);
+                   NSBezierPath *ar = [NSBezierPath bezierPath]; [ar moveToPoint:NSMakePoint(r.origin.x + 8, NSMidY(r) - 5)]; [ar lineToPoint:NSMakePoint(r.origin.x + 15, NSMidY(r))]; [ar lineToPoint:NSMakePoint(r.origin.x + 8, NSMidY(r) + 5)]; [ar closePath]; [paper() setFill]; [ar fill]; }
+        ktext(tiles[k], type(12.5, YES), hov ? paper() : rgb(0.8, 0.77, 0.72, 1), 2, NSMakeRect(r.origin.x + 22, r.origin.y + 6, 140, 17), NSTextAlignmentLeft);
+        NSString *value = k == 0 ? (self.opts.count ? self.opts[0].choices[self.opts[0].index][1] : @"") : k == 1 ? (nmods ? [NSString stringWithFormat:@"%lu of %lu on", (unsigned long)onmods, (unsigned long)nmods] : @"Add")
                         : k == 4 ? @"Nightly" : @"Open";
-        ktext([tiles[k] uppercaseString], type(9.5, YES), hov ? rgb(1, 0.45, 0.42, 1) : ash(), 1.6, NSMakeRect(r.origin.x + 19, r.origin.y + 7, r.size.width - 24, 14), NSTextAlignmentLeft);
-        text(value, type(13, YES), k == 1 && onmods ? blood() : paper(), NSMakeRect(r.origin.x + 19, r.origin.y + 22, r.size.width - 24, 20), NSTextAlignmentLeft);
+        text(value, type(11.5, NO), k == 1 && onmods ? blood() : ash(), NSMakeRect(r.origin.x + 150, r.origin.y + 7, r.size.width - 160, 16), NSTextAlignmentRight);
     }
-    NSRect q = self.quitRect, p = self.playRect;
-    [self glass:q radius:8 tint:rgb(1, 1, 1, self.hover == HIT_QUIT ? 0.11 : 0.06) edge:nil width:1];
-    ktext(@"QUIT", type(15, YES), paper(), 3, NSMakeRect(q.origin.x, q.origin.y + 17, q.size.width, 24), NSTextAlignmentCenter);
-    NSDictionary *en = [self entry:self.game]; BOOL can = en && volume_ok(en[@"game"]); BOOL ph = self.hover == HIT_PLAY;
-    {   /* Play: blood-red, lit from above, a play mark, the game it opens */
-        NSBezierPath *pb = [NSBezierPath bezierPathWithRoundedRect:p xRadius:8 yRadius:8];
-        NSShadow *g = [NSShadow new]; g.shadowColor = rgb(0.9, 0.1, 0.12, can ? (ph ? 0.75 : 0.45) : 0); g.shadowBlurRadius = ph ? 20 : 12;
-        [NSGraphicsContext saveGraphicsState]; [g set]; [blood() setFill]; [pb fill]; [NSGraphicsContext restoreGraphicsState];
-        [NSGraphicsContext saveGraphicsState]; [pb addClip];
-        [[[NSGradient alloc] initWithStartingColor:can ? (ph ? rgb(0.95, 0.20, 0.20, 1) : rgb(0.84, 0.13, 0.15, 1)) : rgb(0.30, 0.12, 0.12, 1)
-                                       endingColor:can ? rgb(0.48, 0.03, 0.05, 1) : rgb(0.18, 0.07, 0.07, 1)] drawInRect:p angle:-90];
-        [rgb(1, 1, 1, 0.22) setFill]; NSRectFillUsingOperation(NSMakeRect(p.origin.x, p.origin.y, p.size.width, 1), NSCompositingOperationSourceOver);
-        [NSGraphicsContext restoreGraphicsState];
-        [rgb(1, 0.55, 0.5, can ? 0.7 : 0.2) setStroke]; NSBezierPath *pe = [NSBezierPath bezierPathWithRoundedRect:NSInsetRect(p, 0.5, 0.5) xRadius:8 yRadius:8]; pe.lineWidth = 1; [pe stroke];
-        NSBezierPath *tri = [NSBezierPath bezierPath]; CGFloat cx = p.origin.x + 26, cy = p.origin.y + 22;
-        [tri moveToPoint:NSMakePoint(cx - 5, cy - 8)]; [tri lineToPoint:NSMakePoint(cx + 8, cy)]; [tri lineToPoint:NSMakePoint(cx - 5, cy + 8)]; [tri closePath]; [(can ? paper() : ash()) setFill]; [tri fill];
-        ktext(@"PLAY", title_font(24), can ? paper() : ash(), 3, NSMakeRect(p.origin.x + 30, p.origin.y + 6, p.size.width - 36, 32), NSTextAlignmentCenter);
-        ktext(@(gd->title).uppercaseString, type(9.5, YES), rgb(1, 0.85, 0.82, can ? 0.85 : 0.4), 1.4, NSMakeRect(p.origin.x + 8, p.origin.y + 36, p.size.width - 16, 14), NSTextAlignmentCenter);
+    {   /* Exit and Use */
+        NSRect q = self.quitRect, p = self.playRect; NSDictionary *en = [self entry:self.game]; BOOL can = en && volume_ok(en[@"game"]), ph = self.hover == HIT_PLAY;
+        [self panelBox:q title:nil]; ktext(@"EXIT", type(15, YES), self.hover == HIT_QUIT ? paper() : rgb(0.8, 0.77, 0.72, 1), 3, NSMakeRect(q.origin.x, q.origin.y + 16, q.size.width, 20), NSTextAlignmentCenter);
+        [[[NSGradient alloc] initWithStartingColor:can ? (ph ? rgb(0.95, 0.20, 0.20, 1) : rgb(0.80, 0.11, 0.13, 1)) : rgb(0.28, 0.11, 0.11, 1) endingColor:can ? rgb(0.42, 0.03, 0.05, 1) : rgb(0.16, 0.06, 0.06, 1)] drawInRect:p angle:-90];
+        [rgb(1, 0.55, 0.5, can ? 0.75 : 0.2) setStroke]; NSBezierPath *pe = [NSBezierPath bezierPathWithRect:NSInsetRect(p, 0.5, 0.5)]; pe.lineWidth = 1; [pe stroke];
+        ktext(@"USE", title_font(24), can ? paper() : ash(), 4, NSMakeRect(p.origin.x, p.origin.y + 4, p.size.width, 30), NSTextAlignmentCenter);
+        ktext(@(gd->title).uppercaseString, type(9, YES), rgb(1, 0.85, 0.82, can ? 0.85 : 0.4), 1.2, NSMakeRect(p.origin.x + 6, p.origin.y + 32, p.size.width - 12, 13), NSTextAlignmentCenter);
+        NSString *hint = self.status.length ? self.status : @"←→ choose  ·  ↑↓ version  ·  Return uses  ·  Esc exits";
+        text(hint, type(11, NO), ash(), NSMakeRect(NSMaxX(q) + 14, q.origin.y + 17, NSMinX(p) - NSMaxX(q) - 28, 16), NSTextAlignmentCenter);
     }
-    if (self.status.length) text(self.status, type(12, NO), ash(), NSMakeRect(40, 636, b.size.width - 80, 18), NSTextAlignmentLeft);
-    /* the options panel */
+    (void)b;
     if (self.open) {
-        [rgb(0, 0, 0, 0.6) setFill]; NSRectFillUsingOperation(b, NSCompositingOperationSourceOver);
-        NSRect pr = self.panelRect; [self glass:pr radius:14 tint:rgb(0.05, 0.04, 0.05, 0.55) edge:rgb(0.76, 0.09, 0.11, 0.8) width:1.5];
-        text(@"OPTIONS", type(16, YES), blood(), NSMakeRect(pr.origin.x, pr.origin.y + 18, pr.size.width, 22), NSTextAlignmentCenter);
+        [rgb(0, 0, 0, 0.7) setFill]; NSRectFillUsingOperation(b, NSCompositingOperationSourceOver);
+        NSRect pr = self.panelRect; [self panelBox:pr title:@"OPTIONS"];
         for (NSInteger k = 0; k < (NSInteger)self.opts.count; k++) {
             Opt *o = self.opts[k]; NSRect r = [self rowRect:k]; BOOL hov = self.hover == HIT_ROW + k;
-            if (hov) { [rgb(0.3, 0.05, 0.07, 0.35) setFill]; NSRectFillUsingOperation(r, NSCompositingOperationSourceOver); }
-            text(o.title, type(15, YES), paper(), NSMakeRect(r.origin.x + 12, r.origin.y + 4, 220, 22), NSTextAlignmentLeft);
+            if (hov) { [rgb(0.45, 0.04, 0.06, 0.45) setFill]; NSRectFillUsingOperation(r, NSCompositingOperationSourceOver); }
+            ktext(o.title.uppercaseString, type(13, YES), paper(), 1.6, NSMakeRect(r.origin.x + 12, r.origin.y + 5, 260, 20), NSTextAlignmentLeft);
             text(o.choices[o.index][1], type(15, YES), blood(), NSMakeRect(r.origin.x + 240, r.origin.y + 4, r.size.width - 252, 22), NSTextAlignmentRight);
             text(o.choices[o.index][2], type(11, NO), ash(), NSMakeRect(r.origin.x + 12, r.origin.y + 28, r.size.width - 24, 16), NSTextAlignmentLeft);
         }
